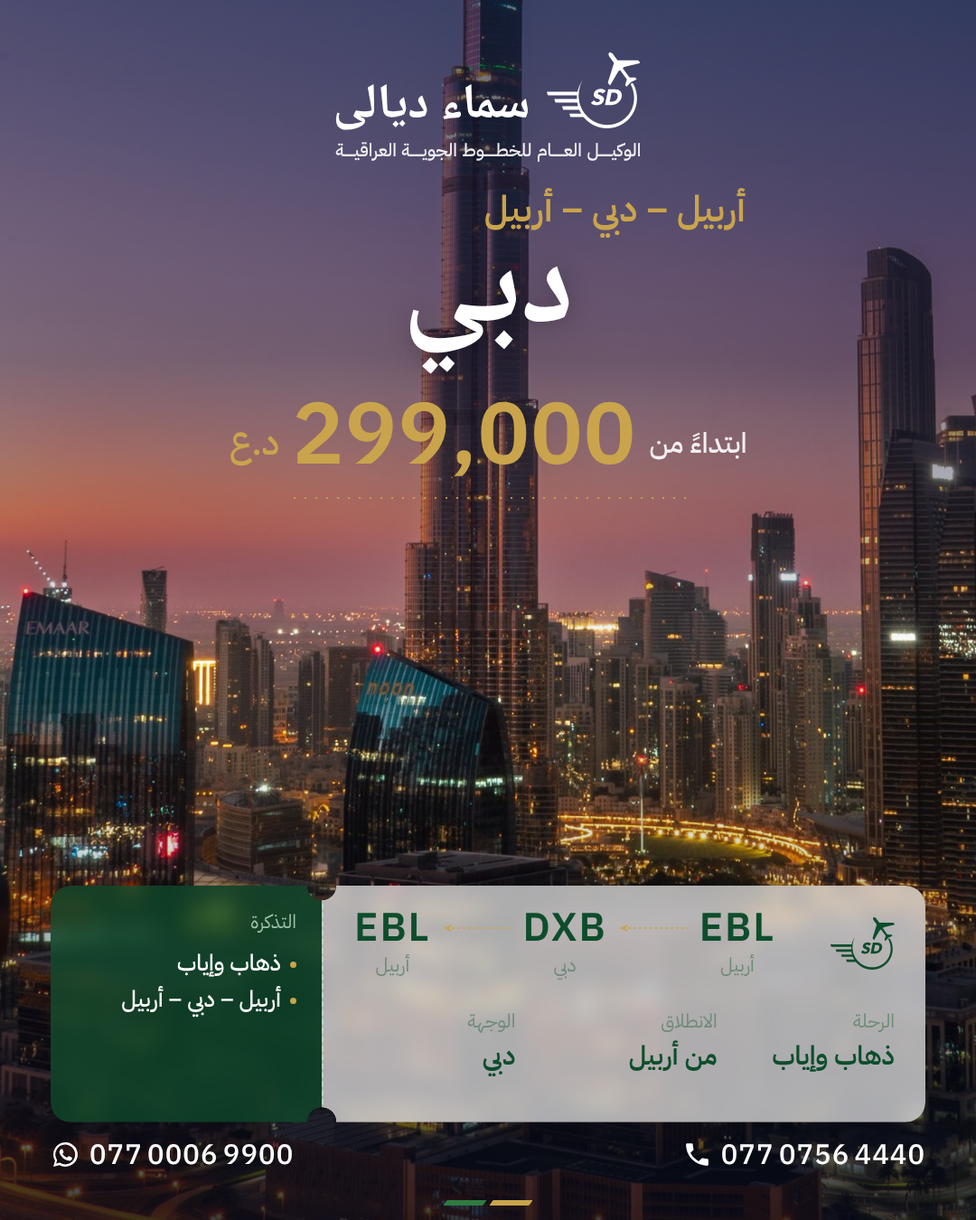
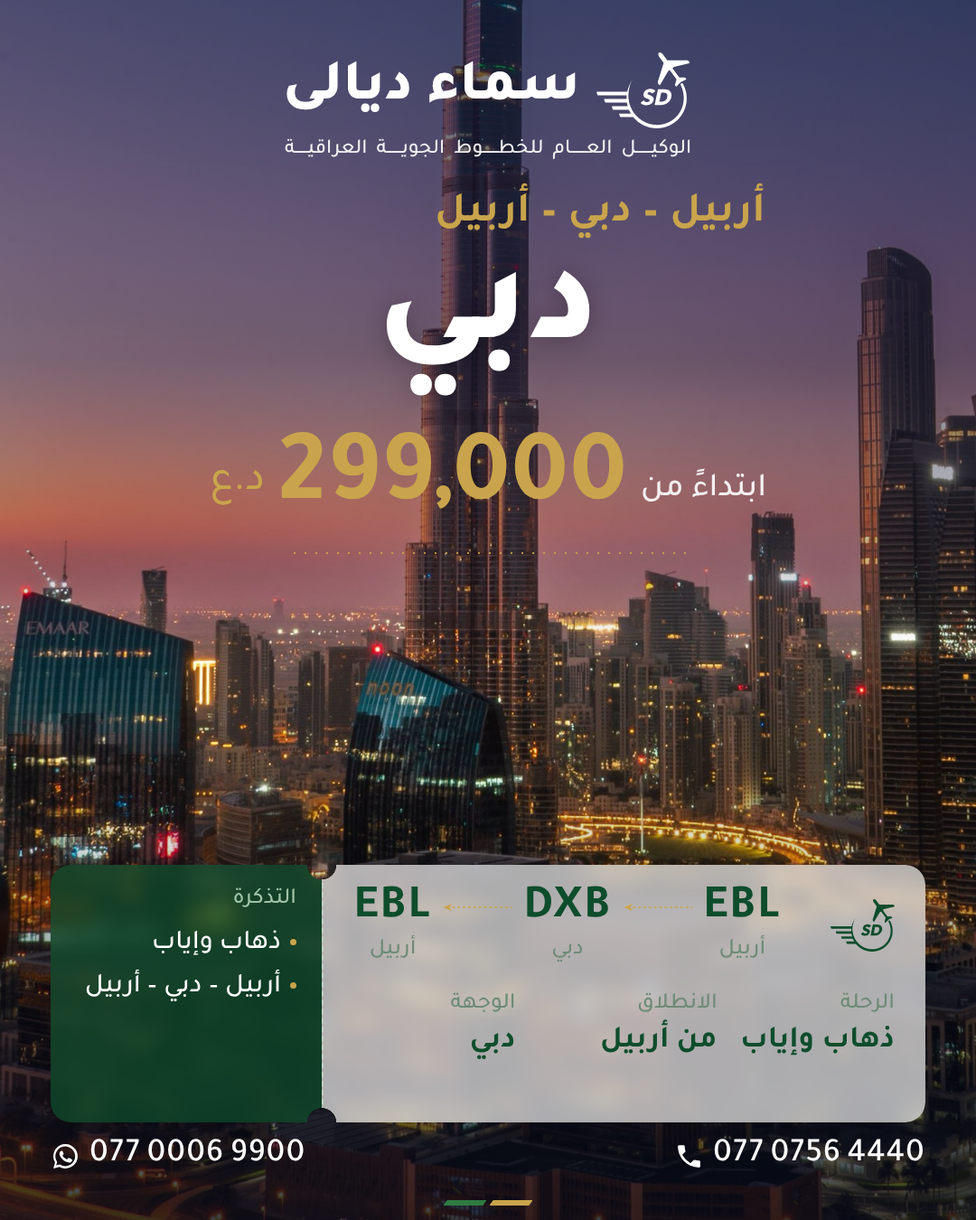
Adopt Tajawal as the house font; Dubai ad set in Tajawal at a larger size
Claude-Session: https://claude.ai/code/session_01EprWPUJDuKvYHn821imCPv

diff --git a/09-التصاميم/دبي من أربيل - نظيف مع بطاقة صعود/إعلان - الخط القديم Naskh و Plex.html b/09-التصاميم/دبي من أربيل - نظيف مع بطاقة صعود/إعلان - الخط القديم Naskh و Plex.html
@@ -1,0 +1,175 @@
+<!doctype html>
+<html lang="ar" dir="rtl">
+<head>
+<meta charset="utf-8">
+<title>دبي من أربيل - الأردن رأس السنة - نظيف مع بطاقة صعود</title>
+<style>
+  @font-face{font-family:Naskh;font-weight:700;src:url("../../07-أدوات/خطوط/noto-naskh-arabic-arabic-700-normal.woff2")}
+  @font-face{font-family:Plex;font-weight:400;src:url("../../07-أدوات/خطوط/ibm-plex-sans-arabic-arabic-400-normal.woff2");unicode-range:U+0600-06FF,U+0750-077F,U+FB50-FDFF,U+FE70-FEFF,U+200C-200E}
+  @font-face{font-family:Plex;font-weight:400;src:url("../../07-أدوات/خطوط/ibm-plex-sans-arabic-latin-400-normal.woff2");unicode-range:U+0000-00FF,U+2000-206F}
+  @font-face{font-family:Plex;font-weight:500;src:url("../../07-أدوات/خطوط/ibm-plex-sans-arabic-arabic-500-normal.woff2");unicode-range:U+0600-06FF,U+0750-077F,U+FB50-FDFF,U+FE70-FEFF,U+200C-200E}
+  @font-face{font-family:Plex;font-weight:500;src:url("../../07-أدوات/خطوط/ibm-plex-sans-arabic-latin-500-normal.woff2");unicode-range:U+0000-00FF,U+2000-206F}
+  @font-face{font-family:Plex;font-weight:600;src:url("../../07-أدوات/خطوط/ibm-plex-sans-arabic-arabic-600-normal.woff2");unicode-range:U+0600-06FF,U+0750-077F,U+FB50-FDFF,U+FE70-FEFF,U+200C-200E}
+  @font-face{font-family:Plex;font-weight:600;src:url("../../07-أدوات/خطوط/ibm-plex-sans-arabic-latin-600-normal.woff2");unicode-range:U+0000-00FF,U+2000-206F}
+
+  :root{
+    --kick-dx:140.3px;
+    --green:#0E4D2C; --mid:#2F7A41; --gold:#C9A44C; --light:#E9F2EA; --white:#FFFFFF;
+    --ink:#FFFFFF;          /* single logo/text colour, chosen per background */
+    --accent:var(--gold);   /* price colour */
+    --img-y:0px;
+    --lock-dx:-1.9px; --name-dy:22px; --tag-size:20px; --tag-ws:0.72px; --tag-dx:0.4px;   /* header fine-tuning */
+    /* --img-y: vertical position of the photo (1080 x 1620 after scaling) */
+  }
+  *{margin:0;padding:0;box-sizing:border-box}
+  html,body{width:1080px;height:1350px;overflow:hidden;background:#0d2a3a}
+  .ad{position:relative;width:1080px;height:1350px;overflow:hidden;color:var(--ink)}
+  .photo{position:absolute;inset:0;background:url("../../08-الصور/وجهات/دبي - برج خليفة عند الغروب (الأصل).jpg") 50% 100%/1080px auto no-repeat}
+  .shade-top{position:absolute;inset:0 0 auto 0;height:720px;background:linear-gradient(180deg,rgba(14,12,40,.58) 0%,rgba(14,12,40,.52) 55%,rgba(14,12,40,.30) 78%,rgba(14,12,40,0) 100%)}
+  .collage{position:absolute;inset:0;display:block}
+  .shade-bot{position:absolute;inset:auto 0 0 0;height:520px;
+             background:linear-gradient(0deg,rgba(4,10,26,.78) 0%,rgba(4,10,26,.35) 55%,rgba(4,10,26,0) 100%)}
+
+  /* ---- header ---- */
+  .head{position:absolute;top:58px;left:0;right:0;display:flex;flex-direction:column;align-items:center}
+  .brand{display:inline-flex;flex-direction:column;align-items:stretch}
+  .lockup{display:flex;align-items:center;justify-content:center;gap:18px}
+  .lockup img{height:84px;display:block}
+  .lockup{transform:translateX(var(--lock-dx))}
+  .lockup .name{font-family:Naskh;font-weight:700;font-size:54px;line-height:1;padding-bottom:8px;white-space:nowrap;
+                transform:translateY(var(--name-dy))}
+  /* tagline keeps 20px; it is stretched with kashida (+ a hair of word-spacing) to the ink width of logo + name */
+  .tag{margin:12px auto 0;width:max-content;font-family:Plex;font-weight:500;font-size:var(--tag-size);line-height:1.2;
+       white-space:nowrap;text-align:center;opacity:.92;word-spacing:var(--tag-ws);transform:translateX(var(--tag-dx))}
+
+  .dest{margin-top:30px;font-family:Naskh;font-weight:700;font-size:118px;line-height:1.05;
+        text-shadow:0 2px 24px rgba(0,0,0,.25)}
+  .price{margin-top:2px;display:flex;align-items:baseline;gap:14px;color:var(--accent)}
+  .price .from{font-family:Plex;font-weight:500;font-size:24px;color:var(--ink);opacity:.9;align-self:center;padding-top:14px}
+  .price .num{font-family:Plex;font-weight:600;font-size:96px;line-height:1;direction:ltr;letter-spacing:1px}
+  .price .cur{font-family:Plex;font-weight:500;font-size:30px;position:relative;top:-10px}
+  .airline{margin-top:10px;font-family:Plex;font-weight:500;font-size:22px;opacity:.92;display:flex;align-items:center;gap:14px;white-space:nowrap}
+  .airline::before,.airline::after{content:"";width:46px;height:1px;background:currentColor;opacity:.6}
+  .kicker{width:max-content;transform:translateX(var(--kick-dx,212px));margin-top:44px;font-family:Plex;font-weight:500;font-size:30px;line-height:1.2;color:var(--gold);letter-spacing:.5px}
+  .kicker + .dest{margin-top:10px}
+  /* boarding pass at the bottom */
+  .pass{position:absolute;left:56px;right:56px;bottom:108px;height:226px;display:flex;direction:rtl;
+        filter:none}
+  .pass .main{flex:1;background:rgba(255,255,255,.66);backdrop-filter:blur(10px) saturate(1.1);-webkit-backdrop-filter:blur(10px);border-radius:0 22px 22px 0;padding:24px 34px 22px;color:var(--green);position:relative;border-left:2.5px dashed #BFD2C4;
+     -webkit-mask:radial-gradient(circle at 0 0,transparent 16px,#000 16.5px) top/100% 51% no-repeat,radial-gradient(circle at 0 100%,transparent 16px,#000 16.5px) bottom/100% 51% no-repeat}
+  .pass .stubx{width:300px;background:rgba(14,77,44,.72);backdrop-filter:blur(10px);-webkit-backdrop-filter:blur(10px);border-radius:22px 0 0 22px;padding:24px 28px;color:#FFFFFF;position:relative;
+     -webkit-mask:radial-gradient(circle at 100% 0,transparent 16px,#000 16.5px) top/100% 51% no-repeat,radial-gradient(circle at 100% 100%,transparent 16px,#000 16.5px) bottom/100% 51% no-repeat}
+  .pass .cut{width:0;position:relative;border-right:2.5px dashed #BFD2C4;background:#fff}
+  .pass .cut::before,.pass .cut::after{content:"";position:absolute;right:-17px;width:32px;height:32px;border-radius:50%;background:#2a2a35}
+  .pass .cut::before{top:-16px} .pass .cut::after{bottom:-16px}
+  .row1{display:flex;align-items:center;justify-content:space-between}
+  .bplogo{height:58px;display:block}
+  .bp{display:inline-flex;align-items:center;gap:8px;background:var(--green);color:#fff;border-radius:999px;padding:6px 16px 8px;font-family:Plex;font-weight:500;font-size:18px}
+  .bp svg{width:17px;height:17px;color:var(--gold)}
+  .route{display:flex;align-items:flex-start;gap:16px;direction:ltr}
+  .route .code{font-family:Plex;font-weight:600;font-size:38px;letter-spacing:2px;line-height:1}
+  .route .city{font-family:Plex;font-size:16px;color:#6E8B77;margin-top:4px;text-align:center;direction:rtl}
+  .route svg{margin-top:13px;width:120px;height:14px}
+  .fields{margin-top:26px;display:grid;grid-template-columns:1fr 1.15fr 1fr;gap:18px}
+  .f .k{font-family:Plex;font-size:16px;color:#6E8B77;margin-bottom:4px}
+  .f .v .sub{display:block;font-weight:500;font-size:18px;color:#3E6B4C}
+  .f .v{font-family:Plex;font-weight:600;font-size:22px;line-height:1.3;white-space:nowrap}
+  .stubx .k{font-family:Plex;font-size:16px;color:#9FC2A6;margin-bottom:10px}
+  .stubx ul{list-style:none;font-family:Plex;font-weight:500;font-size:19px;line-height:1.55}
+  .stubx li::before{content:"";display:inline-block;width:7px;height:7px;border-radius:50%;background:var(--gold);margin-left:10px;vertical-align:middle}
+  .perf{margin-top:20px;width:440px;height:2px;
+        background-image:radial-gradient(circle,rgba(201,164,76,.85) 1.2px,transparent 1.6px);
+        background-size:12px 2px;background-repeat:repeat-x}
+
+  /* ---- footer ---- */
+  .foot{position:absolute;left:56px;right:56px;bottom:46px;color:#fff;display:flex;align-items:flex-end;justify-content:space-between}
+  .dur .from{font-family:Plex;font-weight:500;font-size:19px;opacity:.85;display:block;margin-bottom:2px}
+  .dur .val{font-family:Plex;font-weight:600;font-size:32px;line-height:1.2;white-space:nowrap}
+  .stripes{position:absolute;left:50%;bottom:16px;transform:translateX(-50%);display:flex;gap:7px}
+  .stripes i{display:block;width:44px;height:6px;transform:skewX(-35deg);border-radius:1px}
+  .stripes i:nth-child(1){background:var(--gold)} .stripes i:nth-child(2){background:var(--mid)}
+  .wa{display:flex;align-items:center;gap:10px;direction:ltr;padding-bottom:3px}
+  .wa .ph{word-spacing:-3px}
+  .wa svg{width:28px;height:28px;flex:none}
+  .wa span{font-family:Plex;font-weight:500;font-size:25px;letter-spacing:1px}
+  .dest{font-size:136px !important;line-height:1.05 !important;margin-top:0 !important}
+  .kicker{margin-top:30px !important;font-weight:600 !important}
+  .price{margin-top:34px !important}
+  /* bigger text throughout (header lockup and 20px agent line stay as measured) */
+  .kicker{font-size:40px !important}
+  .price .from{font-size:31px !important;padding-top:18px !important}
+  .price .cur{font-size:40px !important}
+  .pass{height:262px !important}
+  .route{gap:12px !important}
+  .route .code{font-size:44px !important}
+  .route .city{font-size:21px !important}
+  .route svg{width:78px !important;margin-top:16px !important}
+  .fields{margin-top:30px !important}
+  .f .k{font-size:21px !important}
+  .f .v{font-size:29px !important}
+  .stubx .k{font-size:21px !important}
+  .stubx ul{font-size:25px !important;line-height:1.6 !important}
+  .wa span{font-size:31px !important}
+  .wa svg{width:33px !important;height:33px !important}
+</style>
+</head>
+<body>
+<div class="ad">
+  <div class="photo"></div>
+  <div class="shade-top"></div>
+
+  <div class="shade-bot"></div>
+
+  <div class="head">
+    <div class="brand" id="brand">
+      <div class="lockup" id="lockup">
+        <img src="../../01-الشعار/أحادي بلا الاسم الصغير/الرمز - أبيض.svg" alt="">
+        <div class="name">سماء ديالى</div>
+      </div>
+      <div class="tag" id="tag">الوكيــــــل العــــــام للخطــــــوط الجويــــــة العراقيـــــة</div>
+    </div>
+    <div class="kicker">أربيل – دبي – أربيل</div>
+    <div class="dest">دبي</div>
+    <div class="price">
+      <span class="from">ابتداءً من</span>
+      <span class="num">299,000</span>
+      <span class="cur">د.ع</span>
+    </div>
+    <div class="perf"></div>
+  </div>
+
+  <div class="foot">
+    <div class="wa"><svg viewBox="0 0 24 24" fill="#fff" aria-hidden="true"><path d="M6.6 10.8a15.1 15.1 0 0 0 6.6 6.6l2.2-2.2a1 1 0 0 1 1-.25 11.4 11.4 0 0 0 3.6.57 1 1 0 0 1 1 1V20a1 1 0 0 1-1 1A17 17 0 0 1 3 4a1 1 0 0 1 1-1h3.5a1 1 0 0 1 1 1c0 1.25.2 2.45.57 3.57a1 1 0 0 1-.25 1z"/></svg><span class="ph">077 0756 4440</span></div>
+    <div class="wa">
+      <svg viewBox="0 0 32 32" fill="#fff" aria-hidden="true"><path d="M16 3a13 13 0 0 0-11.2 19.6L3 29l6.6-1.7A13 13 0 1 0 16 3zm0 23.6c-2 0-4-.5-5.7-1.6l-.4-.2-3.9 1 1-3.8-.3-.4A10.6 10.6 0 1 1 16 26.6zm5.8-7.9c-.3-.2-1.9-.9-2.2-1-.3-.1-.5-.2-.7.2l-1 1.2c-.2.2-.4.2-.7.1a8.7 8.7 0 0 1-4.3-3.8c-.3-.6.3-.5 1-1.7.1-.2 0-.4 0-.6l-1-2.4c-.3-.6-.5-.5-.7-.5h-.6c-.2 0-.6.1-.9.4-.3.3-1.2 1.1-1.2 2.8s1.2 3.2 1.4 3.5c.2.2 2.4 3.6 5.8 5 2.1.9 3 1 4 .8.7-.1 1.9-.8 2.2-1.6.3-.8.3-1.4.2-1.6-.1-.1-.3-.2-.6-.3z"/></svg>
+      <span class="ph">077 0006 9900</span>
+    </div>
+  </div>
+  <div class="pass">
+    <div class="main">
+      <div class="row1">
+        <img class="bplogo" src="../../01-الشعار/أحادي بلا الاسم الصغير/الرمز - أخضر.svg" alt="">
+        <div class="route">
+          <div><div class="code">EBL</div><div class="city">أربيل</div></div>
+          <svg viewBox="0 0 120 14"><line x1="18" y1="7" x2="118" y2="7" stroke="#C9A44C" stroke-width="2.5" stroke-dasharray="3 6" stroke-linecap="round"/><path d="M2 7 L17 1 L13 7 L17 13 Z" fill="#C9A44C"/></svg>
+          <div><div class="code">DXB</div><div class="city">دبي</div></div>
+          <svg viewBox="0 0 120 14"><line x1="18" y1="7" x2="118" y2="7" stroke="#C9A44C" stroke-width="2.5" stroke-dasharray="3 6" stroke-linecap="round"/><path d="M2 7 L17 1 L13 7 L17 13 Z" fill="#C9A44C"/></svg>
+          <div><div class="code">EBL</div><div class="city">أربيل</div></div>
+        </div>
+      </div>
+      <div class="fields">
+        <div class="f"><div class="k">الرحلة</div><div class="v">ذهاب وإياب</div></div>
+        <div class="f"><div class="k">الانطلاق</div><div class="v">من أربيل</div></div>
+        <div class="f"><div class="k">الوجهة</div><div class="v">دبي</div></div>
+      </div>
+    </div>
+    <div class="stubx">
+      <div class="k">التذكرة</div>
+      <ul><li>ذهاب وإياب</li><li>أربيل – دبي – أربيل</li></ul>
+    </div>
+  </div>
+  <div class="stripes"><i></i><i></i></div>
+</div>
+<script>document.fonts.ready.then(()=>{document.body.dataset.ready='1'})</script>
+</body>
+</html>

diff --git a/09-التصاميم/دبي من أربيل - نظيف مع بطاقة صعود/إعلان.html b/09-التصاميم/دبي من أربيل - نظيف مع بطاقة صعود/إعلان.html
@@ -4,21 +4,25 @@
 <meta charset="utf-8">
 <title>دبي من أربيل - الأردن رأس السنة - نظيف مع بطاقة صعود</title>
 <style>
-  @font-face{font-family:Naskh;font-weight:700;src:url("../../07-أدوات/خطوط/noto-naskh-arabic-arabic-700-normal.woff2")}
-  @font-face{font-family:Plex;font-weight:400;src:url("../../07-أدوات/خطوط/ibm-plex-sans-arabic-arabic-400-normal.woff2");unicode-range:U+0600-06FF,U+0750-077F,U+FB50-FDFF,U+FE70-FEFF,U+200C-200E}
-  @font-face{font-family:Plex;font-weight:400;src:url("../../07-أدوات/خطوط/ibm-plex-sans-arabic-latin-400-normal.woff2");unicode-range:U+0000-00FF,U+2000-206F}
-  @font-face{font-family:Plex;font-weight:500;src:url("../../07-أدوات/خطوط/ibm-plex-sans-arabic-arabic-500-normal.woff2");unicode-range:U+0600-06FF,U+0750-077F,U+FB50-FDFF,U+FE70-FEFF,U+200C-200E}
-  @font-face{font-family:Plex;font-weight:500;src:url("../../07-أدوات/خطوط/ibm-plex-sans-arabic-latin-500-normal.woff2");unicode-range:U+0000-00FF,U+2000-206F}
-  @font-face{font-family:Plex;font-weight:600;src:url("../../07-أدوات/خطوط/ibm-plex-sans-arabic-arabic-600-normal.woff2");unicode-range:U+0600-06FF,U+0750-077F,U+FB50-FDFF,U+FE70-FEFF,U+200C-200E}
-  @font-face{font-family:Plex;font-weight:600;src:url("../../07-أدوات/خطوط/ibm-plex-sans-arabic-latin-600-normal.woff2");unicode-range:U+0000-00FF,U+2000-206F}
+  @font-face{font-family:Tajawal;font-weight:700;src:url("../../07-أدوات/خطوط/tajawal-arabic-800-normal.woff2");unicode-range:U+0600-06FF,U+0750-077F,U+FB50-FDFF,U+FE70-FEFF,U+200C-200E}
+  @font-face{font-family:Tajawal;font-weight:700;src:url("../../07-أدوات/خطوط/tajawal-latin-800-normal.woff2");unicode-range:U+0000-00FF,U+2000-206F}
+  @font-face{font-family:TajawalT;font-weight:400;src:url("../../07-أدوات/خطوط/tajawal-arabic-500-normal.woff2");unicode-range:U+0600-06FF,U+0750-077F,U+FB50-FDFF,U+FE70-FEFF,U+200C-200E}
+  @font-face{font-family:TajawalT;font-weight:400;src:url("../../07-أدوات/خطوط/tajawal-latin-500-normal.woff2");unicode-range:U+0000-00FF,U+2000-206F}
+  @font-face{font-family:TajawalT;font-weight:500;src:url("../../07-أدوات/خطوط/tajawal-arabic-500-normal.woff2");unicode-range:U+0600-06FF,U+0750-077F,U+FB50-FDFF,U+FE70-FEFF,U+200C-200E}
+  @font-face{font-family:TajawalT;font-weight:500;src:url("../../07-أدوات/خطوط/tajawal-latin-500-normal.woff2");unicode-range:U+0000-00FF,U+2000-206F}
+  @font-face{font-family:TajawalT;font-weight:600;src:url("../../07-أدوات/خطوط/tajawal-arabic-700-normal.woff2");unicode-range:U+0600-06FF,U+0750-077F,U+FB50-FDFF,U+FE70-FEFF,U+200C-200E}
+  @font-face{font-family:TajawalT;font-weight:600;src:url("../../07-أدوات/خطوط/tajawal-latin-700-normal.woff2");unicode-range:U+0000-00FF,U+2000-206F}
+  @font-face{font-family:TajawalT;font-weight:700;src:url("../../07-أدوات/خطوط/tajawal-arabic-800-normal.woff2");unicode-range:U+0600-06FF,U+0750-077F,U+FB50-FDFF,U+FE70-FEFF,U+200C-200E}
+  @font-face{font-family:TajawalT;font-weight:700;src:url("../../07-أدوات/خطوط/tajawal-latin-800-normal.woff2");unicode-range:U+0000-00FF,U+2000-206F}
+
 
   :root{
-    --kick-dx:140.3px;
+    --kick-dx:123.8px;
     --green:#0E4D2C; --mid:#2F7A41; --gold:#C9A44C; --light:#E9F2EA; --white:#FFFFFF;
     --ink:#FFFFFF;          /* single logo/text colour, chosen per background */
     --accent:var(--gold);   /* price colour */
     --img-y:0px;
-    --lock-dx:-1.9px; --name-dy:22px; --tag-size:20px; --tag-ws:0.72px; --tag-dx:0.4px;   /* header fine-tuning */
+    --lock-dx:-1.9px; --name-dy:4px; --tag-size:23px; --tag-ws:0.72px; --tag-dx:0.4px;   /* header fine-tuning */
     /* --img-y: vertical position of the photo (1080 x 1620 after scaling) */
   }
   *{margin:0;padding:0;box-sizing:border-box}
@@ -36,21 +40,21 @@
   .lockup{display:flex;align-items:center;justify-content:center;gap:18px}
   .lockup img{height:84px;display:block}
   .lockup{transform:translateX(var(--lock-dx))}
-  .lockup .name{font-family:Naskh;font-weight:700;font-size:54px;line-height:1;padding-bottom:8px;white-space:nowrap;
+  .lockup .name{font-family:Tajawal;font-weight:700;font-size:64px;line-height:1;padding-bottom:8px;white-space:nowrap;
                 transform:translateY(var(--name-dy))}
   /* tagline keeps 20px; it is stretched with kashida (+ a hair of word-spacing) to the ink width of logo + name */
-  .tag{margin:12px auto 0;width:max-content;font-family:Plex;font-weight:500;font-size:var(--tag-size);line-height:1.2;
+  .tag{margin:12px auto 0;width:max-content;font-family:TajawalT;font-weight:500;font-size:var(--tag-size);line-height:1.2;
        white-space:nowrap;text-align:center;opacity:.92;word-spacing:var(--tag-ws);transform:translateX(var(--tag-dx))}
 
-  .dest{margin-top:30px;font-family:Naskh;font-weight:700;font-size:118px;line-height:1.05;
+  .dest{margin-top:30px;font-family:Tajawal;font-weight:700;font-size:139px;line-height:1.05;
         text-shadow:0 2px 24px rgba(0,0,0,.25)}
   .price{margin-top:2px;display:flex;align-items:baseline;gap:14px;color:var(--accent)}
-  .price .from{font-family:Plex;font-weight:500;font-size:24px;color:var(--ink);opacity:.9;align-self:center;padding-top:14px}
-  .price .num{font-family:Plex;font-weight:600;font-size:96px;line-height:1;direction:ltr;letter-spacing:1px}
-  .price .cur{font-family:Plex;font-weight:500;font-size:30px;position:relative;top:-10px}
-  .airline{margin-top:10px;font-family:Plex;font-weight:500;font-size:22px;opacity:.92;display:flex;align-items:center;gap:14px;white-space:nowrap}
+  .price .from{font-family:TajawalT;font-weight:500;font-size:28px;color:var(--ink);opacity:.9;align-self:center;padding-top:14px}
+  .price .num{font-family:TajawalT;font-weight:600;font-size:113px;line-height:1;direction:ltr;letter-spacing:1px}
+  .price .cur{font-family:TajawalT;font-weight:500;font-size:35px;position:relative;top:-10px}
+  .airline{margin-top:10px;font-family:TajawalT;font-weight:500;font-size:26px;opacity:.92;display:flex;align-items:center;gap:14px;white-space:nowrap}
   .airline::before,.airline::after{content:"";width:46px;height:1px;background:currentColor;opacity:.6}
-  .kicker{width:max-content;transform:translateX(var(--kick-dx,212px));margin-top:44px;font-family:Plex;font-weight:500;font-size:30px;line-height:1.2;color:var(--gold);letter-spacing:.5px}
+  .kicker{width:max-content;transform:translateX(var(--kick-dx,212px));margin-top:44px;font-family:TajawalT;font-weight:500;font-size:35px;line-height:1.2;color:var(--gold);letter-spacing:.5px}
   .kicker + .dest{margin-top:10px}
   /* boarding pass at the bottom */
   .pass{position:absolute;left:56px;right:56px;bottom:108px;height:226px;display:flex;direction:rtl;
@@ -64,18 +68,18 @@
   .pass .cut::before{top:-16px} .pass .cut::after{bottom:-16px}
   .row1{display:flex;align-items:center;justify-content:space-between}
   .bplogo{height:58px;display:block}
-  .bp{display:inline-flex;align-items:center;gap:8px;background:var(--green);color:#fff;border-radius:999px;padding:6px 16px 8px;font-family:Plex;font-weight:500;font-size:18px}
+  .bp{display:inline-flex;align-items:center;gap:8px;background:var(--green);color:#fff;border-radius:999px;padding:6px 16px 8px;font-family:TajawalT;font-weight:500;font-size:21px}
   .bp svg{width:17px;height:17px;color:var(--gold)}
   .route{display:flex;align-items:flex-start;gap:16px;direction:ltr}
-  .route .code{font-family:Plex;font-weight:600;font-size:38px;letter-spacing:2px;line-height:1}
-  .route .city{font-family:Plex;font-size:16px;color:#6E8B77;margin-top:4px;text-align:center;direction:rtl}
+  .route .code{font-family:TajawalT;font-weight:600;font-size:45px;letter-spacing:2px;line-height:1}
+  .route .city{font-family:TajawalT;font-size:19px;color:#6E8B77;margin-top:4px;text-align:center;direction:rtl}
   .route svg{margin-top:13px;width:120px;height:14px}
   .fields{margin-top:26px;display:grid;grid-template-columns:1fr 1.15fr 1fr;gap:18px}
-  .f .k{font-family:Plex;font-size:16px;color:#6E8B77;margin-bottom:4px}
-  .f .v .sub{display:block;font-weight:500;font-size:18px;color:#3E6B4C}
-  .f .v{font-family:Plex;font-weight:600;font-size:22px;line-height:1.3;white-space:nowrap}
-  .stubx .k{font-family:Plex;font-size:16px;color:#9FC2A6;margin-bottom:10px}
-  .stubx ul{list-style:none;font-family:Plex;font-weight:500;font-size:19px;line-height:1.55}
+  .f .k{font-family:TajawalT;font-size:19px;color:#6E8B77;margin-bottom:4px}
+  .f .v .sub{display:block;font-weight:500;font-size:21px;color:#3E6B4C}
+  .f .v{font-family:TajawalT;font-weight:600;font-size:26px;line-height:1.3;white-space:nowrap}
+  .stubx .k{font-family:TajawalT;font-size:19px;color:#9FC2A6;margin-bottom:10px}
+  .stubx ul{list-style:none;font-family:TajawalT;font-weight:500;font-size:22px;line-height:1.55}
   .stubx li::before{content:"";display:inline-block;width:7px;height:7px;border-radius:50%;background:var(--gold);margin-left:10px;vertical-align:middle}
   .perf{margin-top:20px;width:440px;height:2px;
         background-image:radial-gradient(circle,rgba(201,164,76,.85) 1.2px,transparent 1.6px);
@@ -83,34 +87,37 @@
 
   /* ---- footer ---- */
   .foot{position:absolute;left:56px;right:56px;bottom:46px;color:#fff;display:flex;align-items:flex-end;justify-content:space-between}
-  .dur .from{font-family:Plex;font-weight:500;font-size:19px;opacity:.85;display:block;margin-bottom:2px}
-  .dur .val{font-family:Plex;font-weight:600;font-size:32px;line-height:1.2;white-space:nowrap}
+  .dur .from{font-family:TajawalT;font-weight:500;font-size:22px;opacity:.85;display:block;margin-bottom:2px}
+  .dur .val{font-family:TajawalT;font-weight:600;font-size:38px;line-height:1.2;white-space:nowrap}
   .stripes{position:absolute;left:50%;bottom:16px;transform:translateX(-50%);display:flex;gap:7px}
   .stripes i{display:block;width:44px;height:6px;transform:skewX(-35deg);border-radius:1px}
   .stripes i:nth-child(1){background:var(--gold)} .stripes i:nth-child(2){background:var(--mid)}
   .wa{display:flex;align-items:center;gap:10px;direction:ltr;padding-bottom:3px}
   .wa .ph{word-spacing:-3px}
   .wa svg{width:28px;height:28px;flex:none}
-  .wa span{font-family:Plex;font-weight:500;font-size:25px;letter-spacing:1px}
-  .dest{font-size:136px !important;line-height:1.05 !important;margin-top:0 !important}
+  .wa span{font-family:TajawalT;font-weight:500;font-size:30px;letter-spacing:1px}
+  .dest{font-size:160px !important;line-height:1.05 !important;margin-top:0 !important}
   .kicker{margin-top:30px !important;font-weight:600 !important}
   .price{margin-top:34px !important}
   /* bigger text throughout (header lockup and 20px agent line stay as measured) */
-  .kicker{font-size:40px !important}
-  .price .from{font-size:31px !important;padding-top:18px !important}
-  .price .cur{font-size:40px !important}
+  .kicker{font-size:47px !important}
+  .price .from{font-size:37px !important;padding-top:18px !important}
+  .price .cur{font-size:47px !important}
   .pass{height:262px !important}
   .route{gap:12px !important}
-  .route .code{font-size:44px !important}
-  .route .city{font-size:21px !important}
+  .route .code{font-size:52px !important}
+  .route .city{font-size:25px !important}
   .route svg{width:78px !important;margin-top:16px !important}
   .fields{margin-top:30px !important}
-  .f .k{font-size:21px !important}
-  .f .v{font-size:29px !important}
-  .stubx .k{font-size:21px !important}
-  .stubx ul{font-size:25px !important;line-height:1.6 !important}
-  .wa span{font-size:31px !important}
+  .f .k{font-size:25px !important}
+  .f .v{font-size:34px !important}
+  .stubx .k{font-size:25px !important}
+  .stubx ul{font-size:30px !important;line-height:1.6 !important}
+  .wa span{font-size:37px !important}
   .wa svg{width:33px !important;height:33px !important}
+  .tag{margin-top:10px !important}
+  .price{margin-top:44px !important}
+  .pass{height:285px !important}
 </style>
 </head>
 <body>
@@ -170,6 +177,10 @@
   </div>
   <div class="stripes"><i></i><i></i></div>
 </div>
-<script>document.fonts.ready.then(()=>{document.body.dataset.ready='1'})</script>
+<script>
+document.fonts.ready.then(()=>{const t=document.getElementById('tag'),l=document.getElementById('lockup');
+ t.style.transform='none'; let ws=0; for(let i=0;i<60;i++){const d=l.getBoundingClientRect().width-t.getBoundingClientRect().width; if(Math.abs(d)<0.5)break; ws+=d/5*0.9; t.style.wordSpacing=ws+'px';}
+ document.body.dataset.ready='1'});
+</script>
 </body>
 </html>

diff --git a/CLAUDE.md b/CLAUDE.md
@@ -39,7 +39,7 @@
 | أخضر فاتح (الخلفيات) | #E9F2EA |
 | أبيض | #FFFFFF |
 
-- الخطوط: Noto Naskh Arabic للعناوين وأسماء الوجهات، وIBM Plex Sans Arabic للنصوص. (23 تشرين الثاني 2026: الإدارة تريد خطاً جديداً أكبر قليلاً لكل التصاميم. لوحة الخيارات في `09-التصاميم/خيارات الخط/`، وجُرّبت الخيارات 6 (Alexandria) و7 (El Messiri مع Cairo) و2 (Almarai، والسعر ورموز المطارات بوزن 800) و3 (Tajawal) على إعلان دبي من أربيل، بانتظار القرار. ملفات الخطين في `07-أدوات/خطوط/`. عند تغيير الخط يُعاد ضبط سطر الوكيل بالقياس، وأوزان Cairo تُرفع درجة لأنه أنحف من Plex.)
+- الخطوط: **Tajawal** هو الخط المعتمد لكل التصاميم من 23 تشرين الثاني 2026 (توجّه الإدارة: خط جديد أكبر). العناوين وأسماء الوجهات بوزن 800، والنصوص 500، والأرقام والتمييز 700 إلى 800. الأحجام أكبر من القديم بنحو 18% (سطر الوكيل 23px يُمدّ بالكشيدة وword-spacing يُحسب في الصفحة حتى يطابق عرض الشعار والاسم). الملفات في `07-أدوات/خطوط/tajawal-*`. أول تطبيق: إعلان دبي من أربيل (`إعلان.html`، والنسخة القديمة محفوظة). الخط القديم (Noto Naskh للعناوين وIBM Plex للنصوص) ما زال في باقي القوالب حتى تُحدَّث. جُرّبت قبله Alexandria وEl Messiri مع Cairo وAlmarai (لوحة `09-التصاميم/خيارات الخط/`).
 - العنصر البصري: شريطان مائلان (أخضر وذهبي) مستوحيان من خطوط الطائرة، وبطاقة الصعود لعرض العروض (مسار BGW ← رمز الوجهة، خانات المدة والتاريخ، الجزء المقطوع للسعر). الكعب أخضر بسعر ذهبي على الخلفية الفاتحة، وذهبي بسعر أخضر على الأخضر.
 - شارة ثابتة: "الوكيل العام للخطوط الجوية العراقية في ديالى".
 - قوالب ملف الهوية (منشور العرض، لوحة الأسعار، الستوري...) معتمدة وتُستخدم أساساً للعمل، لكنها مرنة: تُعدَّل أو يُضاف غيرها حين يحتاج المنشور.
